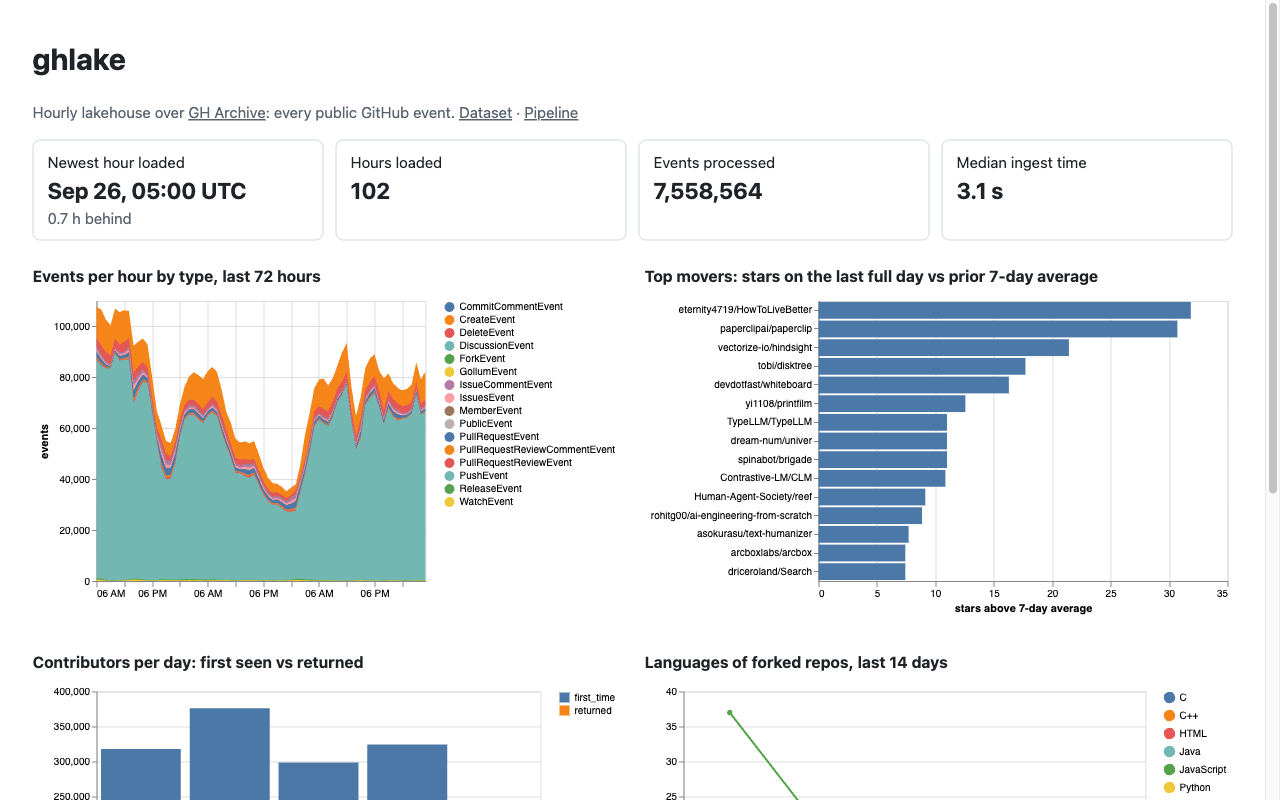
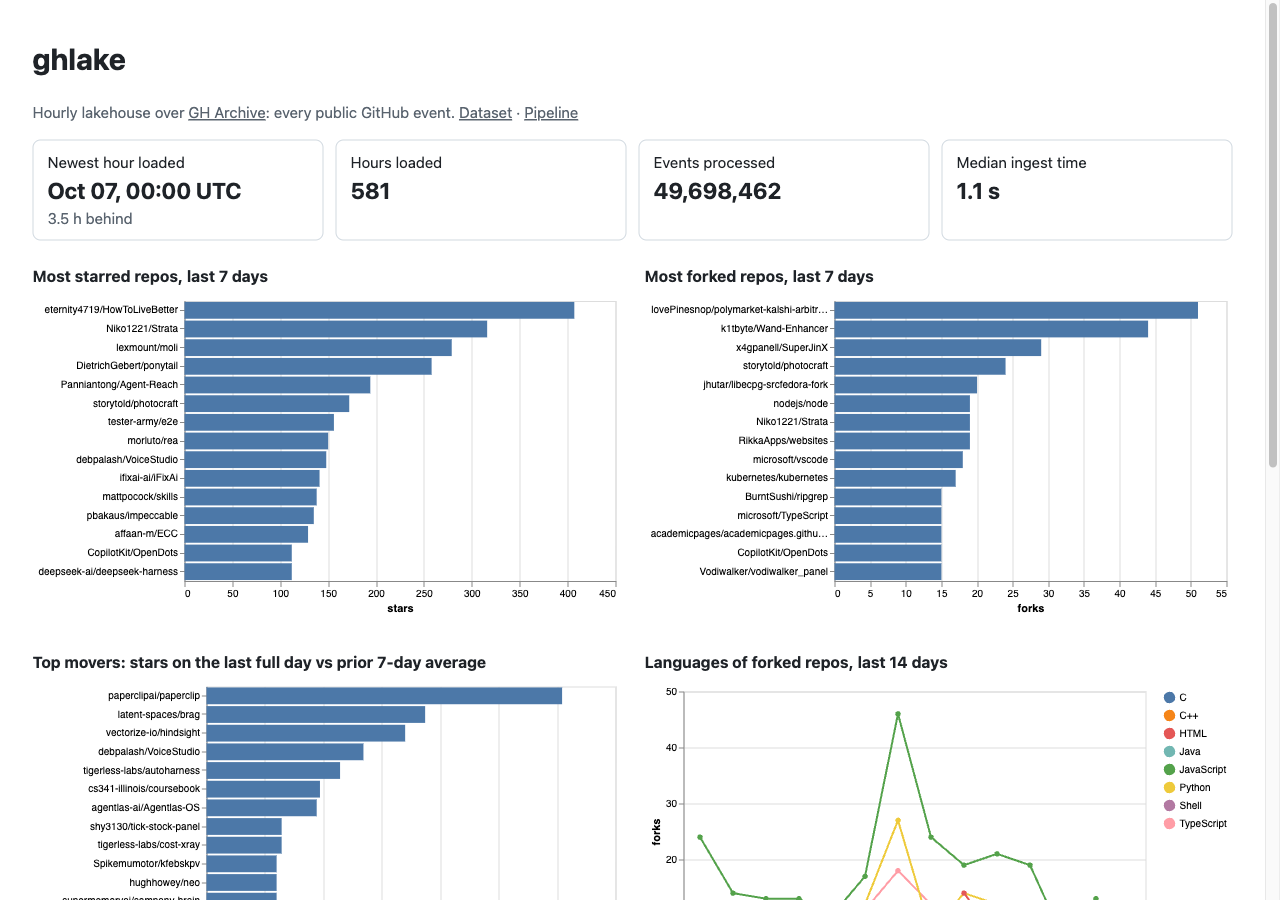
Align site with resume, name-first hero, resume link, fresh ghlake shot

diff --git a/index.html b/index.html
@@ -3,7 +3,10 @@
 <head>
 <meta charset="UTF-8">
 <meta name="viewport" content="width=device-width, initial-scale=1.0, viewport-fit=cover">
-<title>Aishit Dua</title>
+<title>Aishit Dua · Data & Backend Engineer</title>
+<link rel="canonical" href="https://aishitdua.github.io/">
+<meta property="og:url" content="https://aishitdua.github.io/">
+<meta name="twitter:card" content="summary_large_image">
 <meta name="description" content="Aishit Dua, senior data and backend engineer in Bengaluru. Warehouses, pipelines, query layers, and authorization platforms at WizCommerce, Branch International, and Apple Maps.">
 <meta property="og:title" content="Aishit Dua · Senior Data & Backend Engineer">
 <meta property="og:description" content="Warehouses, pipelines, query layers, and authorization platforms. 5 years across B2B commerce, fintech, and Apple Maps.">
@@ -80,10 +83,11 @@ nav ul a:hover{color:var(--ink)}
 
 .hero{padding-block:72px 32px}
 .who{display:flex;flex-wrap:wrap;align-items:center;gap:10px 16px;margin-bottom:28px}
-.who b{font:600 15px var(--sans)}
 .who span{font-size:15px;color:var(--muted)}
 .hero h1{font-size:clamp(40px,7vw,88px);line-height:.98;letter-spacing:-.035em;font-weight:750;max-width:14ch;font-variation-settings:"opsz" 96}
 .hero h1 em{font-style:normal;color:var(--accent)}
+.headline{font-family:var(--display);font-size:clamp(28px,4vw,52px);line-height:1.05;letter-spacing:-.03em;font-weight:650;margin-top:10px;font-variation-settings:"opsz" 96}
+.headline em{font-style:normal;color:var(--accent)}
 .lede{font-size:clamp(17px,1.6vw,19px);color:var(--muted);max-width:60ch;margin-top:28px}
 .cta{display:flex;flex-wrap:wrap;gap:12px;margin-top:32px;align-items:center}
 .btn{display:inline-flex;align-items:center;gap:8px;font-size:14px;font-weight:500;padding:11px 18px;border-radius:8px;border:1px solid var(--line2);background:var(--surface);transition:border-color .15s,transform .15s}
@@ -244,7 +248,7 @@ footer .wrap{display:flex;justify-content:space-between;flex-wrap:wrap;gap:8px}
       <li><a href="#contact">Contact</a></li>
     </ul>
     <div class="nav-right">
-  <a class="live-chip" href="https://huggingface.co/spaces/aishitdua/ghlake" target="_blank" rel="noopener" title="Events loaded by my ghlake pipeline"><span class="pulse"></span><span id="chip">ghlake · 7,558,564 events</span></a>
+  <a class="live-chip" href="https://huggingface.co/spaces/aishitdua/ghlake" target="_blank" rel="noopener" title="Events loaded by my ghlake pipeline"><span class="pulse"></span><span id="chip">ghlake · 49,698,462 events</span></a>
       <button class="theme-btn" id="theme" type="button" aria-label="Switch between light and dark mode">
         <svg class="moon" viewBox="0 0 24 24" fill="none" stroke="currentColor" stroke-width="2" stroke-linecap="round" aria-hidden="true"><path d="M21 12.8A9 9 0 1 1 11.2 3a7 7 0 0 0 9.8 9.8z"/></svg>
         <svg class="sun" viewBox="0 0 24 24" fill="none" stroke="currentColor" stroke-width="2" stroke-linecap="round" aria-hidden="true"><circle cx="12" cy="12" r="4"/><path d="M12 2v2M12 20v2M4.9 4.9l1.4 1.4M17.7 17.7l1.4 1.4M2 12h2M20 12h2M4.9 19.1l1.4-1.4M17.7 6.3l1.4-1.4"/></svg>
@@ -255,20 +259,22 @@ footer .wrap{display:flex;justify-content:space-between;flex-wrap:wrap;gap:8px}
 
 <main class="wrap" id="top">
   <header class="hero">
-    <div class="who"><b>Aishit Dua</b><span>Senior Data Engineer at WizCommerce · Bengaluru</span></div>
-    <h1>Data that stays <em>correct, cheap,</em> and safe to query.</h1>
-    <p class="lede">Backend and data platform engineer, five years across <strong>B2B commerce, fintech lending, and Apple Maps</strong>. I build <strong>warehouses, pipelines, and query layers</strong> on one side, and <strong>authorization and platform services</strong> on the other.</p>
+    <div class="who"><span>Senior Data Engineer at WizCommerce · Bengaluru</span></div>
+    <h1>Aishit Dua</h1>
+    <p class="headline">Data <em>&amp;</em> backend engineer.</p>
+    <p class="lede">Backend and data platform engineer, five years across B2B commerce, fintech lending, and Apple Maps. I build warehouses, pipelines, and query layers on one side, and authorization and platform services on the other.</p>
     <div class="cta">
       <a class="btn primary" href="mailto:aish1804@gmail.com">Email me</a>
       <a class="btn" href="https://github.com/aishitdua" target="_blank" rel="noopener">GitHub ↗</a>
       <a class="btn" href="https://linkedin.com/in/aishit-dua" target="_blank" rel="noopener">LinkedIn ↗</a>
+      <a class="btn" href="https://drive.google.com/file/d/1GZbW9Zo6GYM290cJIUdVIEzUYDqyXvYJ/view?usp=sharing" target="_blank" rel="noopener">Resume ↗</a>
       <button class="copy" id="copy" type="button">aish1804@gmail.com · copy</button>
     </div>
 
     <figure class="lineage" aria-label="Lineage of pipelines I have built, from sources to the people who query them">
       <figcaption class="lineage-head"><span class="cap">Lineage · pipelines I've built</span><span class="cap">each dot is a batch of rows</span></figcaption>
       <div class="lineage-scroll">
-        <svg id="dag" viewBox="0 0 1000 300" role="img" aria-label="Three pipelines: GH Archive to ghlake dashboard, Postgres CDC to the KAI mart and LLM agent, partner sources through Airflow and dbt to reconciled credit-bureau reports">
+        <svg id="dag" viewBox="0 0 1000 300" role="img" aria-label="Three pipelines: GH Archive to ghlake dashboard, Postgres CDC to the KAI warehouse and LLM agent, partner sources through Airflow and dbt to reconciled credit-bureau reports">
           <text class="col" x="20" y="22">SOURCE</text>
           <text class="col" x="280" y="22">LAND · STAGE</text>
           <text class="col" x="540" y="22">MODEL</text>
@@ -283,13 +289,13 @@ footer .wrap{display:flex;justify-content:space-between;flex-wrap:wrap;gap:8px}
     <div class="impact">
       <div class="bar-card">
         <div class="big">−74%</div>
-        <div class="what">BigQuery cost for KAI, an LLM reporting agent over 60+ tenants</div>
+        <div class="what">BigQuery cost for KAI, an LLM reporting agent over 150+ tenants</div>
         <div class="bars"><div><span>before</span><i style="width:100%"></i><span>100</span></div><div class="after"><span>after</span><i style="width:26%"></i><span>26</span></div></div>
       </div>
       <div class="bar-card">
-        <div class="big">89%</div>
+        <div class="big">92%</div>
         <div class="what">Correct SQL from the NL-to-SQL agent on 60 real user questions</div>
-        <div class="bars"><div><span>before</span><i style="width:72%"></i><span>72%</span></div><div class="after"><span>after</span><i style="width:89%"></i><span>89%</span></div></div>
+        <div class="bars"><div><span>before</span><i style="width:72%"></i><span>72%</span></div><div class="after"><span>after</span><i style="width:92%"></i><span>92%</span></div></div>
       </div>
       <div class="bar-card">
         <div class="big">~4 h</div>
@@ -324,28 +330,30 @@ footer .wrap{display:flex;justify-content:space-between;flex-wrap:wrap;gap:8px}
       <div class="when"><h3>WizCommerce</h3><p>Sep 2026 – present<br>Bengaluru</p></div>
       <div>
         <div class="role">Senior Data Engineer</div>
-        <p class="ctx">B2B commerce platform. KAI, its LLM sales assistant, answers reporting questions by generating BigQuery SQL for 60+ tenants.</p>
+        <p class="ctx">B2B commerce platform. KAI, its LLM sales assistant, answers reporting questions by generating BigQuery SQL for 150+ tenants.</p>
         <ul>
-          <li><strong>Designed a BigQuery mart for KAI</strong> (18 fact and aggregate tables, partitioned and clustered by tenant), moved the agent onto it, and <strong>fixed the SQL pattern behind 40% of 4,172 traced queries</strong>. <strong>Query cost fell 74%</strong>, bytes read on top prompts fell <strong>81%</strong>, and restricted users' queries bill <strong>183× fewer bytes</strong>.</li>
-          <li><strong>Wrote the job that rebuilds the mart every 2 hours from raw CDC tables</strong>: stage every table, check row counts, swap. <strong>Reports are 3 hours fresher</strong>. Chose <strong>full rebuilds after measuring</strong> that MERGE and materialized views could not prune the unpartitioned sources.</li>
-          <li><strong>Took the NL-to-SQL agent from 72% to 89% correct SQL</strong> on 60 real user questions by <strong>fixing the schema catalog and row-level access injection</strong>, after a <strong>LangSmith trace review</strong> showed 22% of calls quietly returning zero rows.</li>
-          <li><strong>Deleted ~700 GB of stale data from production Postgres</strong>, saving <strong>~$2K/month</strong>, sequenced through CDC so the <strong>BigQuery replay cost under $200</strong> one-off.</li>
+          <li>Designed the BigQuery reporting warehouse for KAI (18 fact and aggregate tables, partitioned and clustered by tenant), moved the agent onto it, and fixed the SQL pattern behind 40% of 4,172 traced queries. <strong>Query cost fell by 74%, data read per query by 81%, and restricted users' queries bill 183× fewer bytes.</strong></li>
+          <li>Wrote the job that rebuilds the warehouse every 2 hours from raw CDC tables: stage every table, check row counts, swap. <strong>Reports are 3 hours fresher.</strong> Chose full rebuilds after measuring that MERGE and materialized views could not prune the unpartitioned sources.</li>
+          <li>Took the NL-to-SQL agent <strong>from 72% to 92% correct SQL</strong> on 60 real user questions by fixing the schema catalog and row-level access injection, after a LangSmith trace review showed 22% of calls quietly returning zero rows.</li>
+          <li>Deleted ~700 GB of stale data from production Postgres, <strong>saving ~$2K/month</strong>, sequenced through CDC so the BigQuery replay cost under $200 one-off.</li>
         </ul>
       </div>
     </article>
 
     <article class="job">
-      <div class="when"><h3>Branch International</h3><p>Sep 2023 – Aug 2026<br>Bengaluru</p></div>
+      <div class="when"><h3>Branch International</h3><p>Aug 2023 – Sep 2026<br>Bengaluru</p></div>
       <div>
         <div class="role">Software Development Engineer 2, Platform <span class="badge">promoted Apr 2025</span></div>
         <p class="ctx">Fintech lender in India, Kenya, and Nigeria handling millions of daily transactions.</p>
         <ul>
-          <li><strong>Consolidated 12 permission models across 3 countries into one RBAC service</strong>. Staff access requests went from <strong>~3 days to ~4 hours</strong> and access reviews became one process.</li>
-          <li><strong>Shipped New Device Login</strong> with device fingerprinting and step-up auth, ramped 10% → 100% across Kenya and Nigeria. <strong>Account takeovers fell ~40%</strong> across 1M+ users.</li>
-          <li><strong>Built the Maker-Checker Approval Framework</strong>, a shared Rails service with a TypeScript UI, putting <strong>dual control on 15+ critical admin actions</strong> used by <strong>10+ teams</strong>.</li>
-          <li><strong>Moved a 190M-row lookup path from PostgreSQL to Redis</strong> with TTL expiry and <strong>no downtime</strong>. <strong>Read latency fell ~80%</strong>.</li>
-          <li><strong>Built the External Data Ingestion Framework on Airflow and dbt</strong>, <strong>replacing 5 one-off pipelines</strong>. A new source is a single YAML file and every load is traceable.</li>
-          <li><strong>Built a reconciliation framework across Postgres, Snowflake, and external reports</strong> that <strong>catches silent data loss the same day</strong>, and moved <strong>credit-bureau reporting for 4 lending partners</strong> onto it.</li>
+          <li>Consolidated 12 permission models across 3 countries into one RBAC service. <strong>Staff access requests went from ~3 days to ~4 hours</strong> and access reviews became one process.</li>
+          <li>Unified credit-bureau (CIC) reporting for 4 lending partners into one config-driven framework: infrastructure as code, isolated runs, no more corrupted concurrent reports. <strong>Partner onboarding went from ~3 days to ~2 hours of engineering time.</strong></li>
+          <li>Led 2 engineers to deliver the Confidential Data Access Framework: <strong>41 PII fields masked with per-field access tiers and audit-logged reveals</strong>, replacing ad-hoc database access for support and ops teams.</li>
+          <li>Built a reconciliation framework over 195 tables that compares row counts and column samples across Postgres, Snowflake, and external reports. <strong>Caught 8 data-loss incidents in its first 2 weeks.</strong></li>
+          <li>Shipped New Device Login with device fingerprinting and step-up auth, ramped 10% to 100% across Kenya and Nigeria. <strong>Account takeovers fell by ~40% across 1M+ users.</strong></li>
+          <li>Built the External Data Ingestion Framework on Airflow and dbt, <strong>replacing 5 one-off pipelines</strong>. A new source is a single YAML file and every load is traceable.</li>
+          <li>Built the Maker-Checker Approval Framework, a shared Rails service with a TypeScript approval UI, <strong>putting dual control on 15+ critical admin actions used by 10+ engineering teams</strong>.</li>
+          <li>Moved a 190M-row lookup path from PostgreSQL to Redis with TTL expiry and no downtime. <strong>Read latency fell by ~80%.</strong></li>
         </ul>
       </div>
     </article>
@@ -356,9 +364,10 @@ footer .wrap{display:flex;justify-content:space-between;flex-wrap:wrap;gap:8px}
         <div class="role">Software Development Engineer, Maps Data Engineering</div>
         <p class="ctx">Ingestion and data quality for Apple Maps.</p>
         <ul>
-          <li><strong>Built the Scala/Spark data-quality pipeline for Maps</strong>, checking <strong>50M+ records a day</strong> against business rules and coordinate validity. <strong>Validation time fell ~83%</strong>.</li>
-          <li><strong>Automated the ingestion toolchain</strong>: <strong>manual interventions down ~60%</strong>, pipeline SLA up from <strong>91% to 98.5%</strong>.</li>
-          <li><strong>Designed a feature that surfaces the most relevant attributes per record</strong>, <strong>cutting downstream review effort ~50%</strong>.</li>
+          <li>Built the Scala/Spark data-quality pipeline for Maps, checking 50M+ records a day against business rules and coordinate validity. <strong>Validation time fell by ~83%.</strong></li>
+          <li>Automated the ingestion toolchain: <strong>manual interventions down ~60%, pipeline SLA up from 91% to 98.5%</strong>.</li>
+          <li>Designed a feature that surfaces the most relevant data attributes for each record, <strong>cutting downstream review effort by ~50%</strong>.</li>
+          <li>Interviewed engineering candidates and ran knowledge-transfer sessions for new joiners on the Maps ingestion pipelines.</li>
         </ul>
       </div>
     </article>
@@ -372,8 +381,8 @@ footer .wrap{display:flex;justify-content:space-between;flex-wrap:wrap;gap:8px}
         <div class="feature-copy">
           <span class="label live"><span class="pulse"></span>Live · updates every hour</span>
           <h3>ghlake</h3>
-          <p>An <strong>hourly lakehouse over <a href="https://www.gharchive.org" target="_blank" rel="noopener"><u>GH Archive</u></a></strong>, the public record of every GitHub event. <strong>Idempotent ingest</strong> with size and gzip-CRC checks, a <strong>DuckDB silver layer</strong> with one row per event, and <strong>incremental dbt gold models</strong> that recompute only the days touched, guarded by <strong>grain, not-null, and freshness tests</strong>.</p>
-          <p style="margin-top:12px">It <strong>runs itself on GitHub Actions and costs nothing</strong>. The <strong>Hugging Face dataset doubles as the warehouse</strong>, and the dashboard runs <strong>DuckDB-WASM in your browser</strong> against the gold Parquet files.</p>
+          <p>An hourly lakehouse over <a href="https://www.gharchive.org" target="_blank" rel="noopener"><u>GH Archive</u></a>, the public record of every GitHub event. Idempotent ingest with size and gzip-CRC checks, a DuckDB silver layer with one row per event, and incremental dbt gold models that recompute only the days touched, guarded by grain, not-null, and freshness tests.</p>
+          <p style="margin-top:12px"><strong>It runs itself on GitHub Actions and costs nothing.</strong> The Hugging Face dataset doubles as the warehouse, and the dashboard runs DuckDB-WASM in your browser against the gold Parquet files.</p>
           <div class="tag-row"><span class="tag">Python</span><span class="tag">DuckDB</span><span class="tag">dbt</span><span class="tag">Parquet</span><span class="tag">GitHub Actions</span><span class="tag">DuckDB-WASM</span></div>
           <div class="links">
             <a class="go" href="https://huggingface.co/spaces/aishitdua/ghlake" target="_blank" rel="noopener">Live dashboard ↗</a>
@@ -387,9 +396,9 @@ footer .wrap{display:flex;justify-content:space-between;flex-wrap:wrap;gap:8px}
         </a>
       </div>
       <div class="stats">
-        <div><div class="v" id="s-events">7,558,564</div><div class="k">events processed</div></div>
-        <div><div class="v" id="s-hours">102</div><div class="k">hours loaded</div></div>
-        <div><div class="v" id="s-newest">Sep 26 05:00</div><div class="k">newest hour (UTC)</div></div>
+        <div><div class="v" id="s-events">49,698,462</div><div class="k">events processed</div></div>
+        <div><div class="v" id="s-hours">581</div><div class="k">hours loaded</div></div>
+        <div><div class="v" id="s-newest">Oct 7 00:00</div><div class="k">newest hour (UTC)</div></div>
         <div><div class="v" id="s-status">ok</div><div class="k">last run status</div></div>
       </div>
       <div class="flow">
@@ -426,7 +435,7 @@ footer .wrap{display:flex;justify-content:space-between;flex-wrap:wrap;gap:8px}
         <div class="body">
           <span class="label">Live app · authorization</span>
           <h3>RBAC Explorer</h3>
-          <p>A <strong>visual designer for role-based access control</strong>. <strong>Import role hierarchies</strong> (YAML) and <strong>API endpoints</strong> (CSV), see inheritance as a graph grouped by service module, <strong>simulate whether a role can reach a path</strong>, and <strong>export the result as infrastructure-as-code</strong>.</p>
+          <p>A visual designer for role-based access control. Import role hierarchies (YAML) and API endpoints (CSV), see inheritance as a graph grouped by service module, <strong>simulate whether a role can reach a path</strong>, and export the result as infrastructure-as-code.</p>
           <div class="tag-row"><span class="tag">FastAPI</span><span class="tag">SQLAlchemy async</span><span class="tag">Postgres</span><span class="tag">React</span><span class="tag">Cytoscape.js</span></div>
           <div class="links">
             <a class="go" href="https://rbac-explorer-hkrk.vercel.app/" target="_blank" rel="noopener">Open app ↗</a>
@@ -474,13 +483,14 @@ footer .wrap{display:flex;justify-content:space-between;flex-wrap:wrap;gap:8px}
 
   <section class="contact" id="contact">
     <div>
-      <h2>Have data that needs to be correct, cheap, or safe?</h2>
+      <h2>Want to work together?</h2>
       <p>I'm open to senior data and backend platform roles. Email is the fastest way to reach me.</p>
     </div>
     <div class="clinks">
       <a href="mailto:aish1804@gmail.com"><span>email</span><span>aish1804@gmail.com</span></a>
       <a href="https://linkedin.com/in/aishit-dua" target="_blank" rel="noopener"><span>linkedin</span><span>in/aishit-dua ↗</span></a>
       <a href="https://github.com/aishitdua" target="_blank" rel="noopener"><span>github</span><span>aishitdua ↗</span></a>
+      <a href="https://drive.google.com/file/d/1GZbW9Zo6GYM290cJIUdVIEzUYDqyXvYJ/view?usp=sharing" target="_blank" rel="noopener"><span>resume</span><span>PDF ↗</span></a>
     </div>
   </section>
 </main>
@@ -492,19 +502,19 @@ const NS = 'http://www.w3.org/2000/svg';
 const COLS = [20, 280, 540, 800], ROWS = [70, 160, 250], W = 180, H = 50;
 const nodes = {
   gha:   [0, 0, 'GH Archive', 'hourly .json.gz'],
-  cdc:   [0, 1, 'Postgres CDC', 'raw tables, 60+ tenants'],
+  cdc:   [0, 1, 'Postgres CDC', 'raw tables, 150+ tenants'],
   ext:   [0, 2, 'Partner feeds', 'one YAML per source'],
   silver:[1, 0, 'bronze → silver', 'Parquet, one row per event'],
   stage: [1, 1, 'stage + check', 'row counts, then swap'],
   air:   [1, 2, 'Airflow + dbt', 'traceable loads'],
   gold:  [2, 0, 'dbt gold', 'incremental, tested', true],
-  mart:  [2, 1, 'KAI mart', '18 tables, tenant-clustered', true],
+  wh:    [2, 1, 'KAI warehouse', '18 tables, tenant-clustered', true],
   recon: [2, 2, 'Reconciliation', 'PG ↔ Snowflake ↔ reports'],
   dash:  [3, 0, 'DuckDB-WASM', 'dashboard in the browser'],
-  agent: [3, 1, 'LLM agent', 'NL → SQL, 89% correct'],
+  agent: [3, 1, 'LLM agent', 'NL → SQL, 92% correct'],
   bureau:[3, 2, 'Credit bureaus', '4 lending partners'],
 };
-const edges = [['gha','silver'],['silver','gold'],['gold','dash'],['cdc','stage'],['stage','mart'],['mart','agent'],['ext','air'],['air','recon'],['recon','bureau'],['stage','recon']];
+const edges = [['gha','silver'],['silver','gold'],['gold','dash'],['cdc','stage'],['stage','wh'],['wh','agent'],['ext','air'],['air','recon'],['recon','bureau'],['stage','recon']];
 const el = (tag, attrs, parent) => { const e = document.createElementNS(NS, tag); for (const k in attrs) e.setAttribute(k, attrs[k]); parent && parent.appendChild(e); return e; };
 const g = id => document.getElementById(id);
 const paths = edges.map(([a, b]) => {
